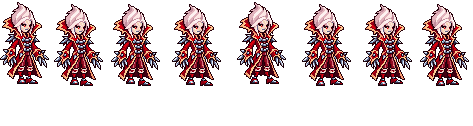
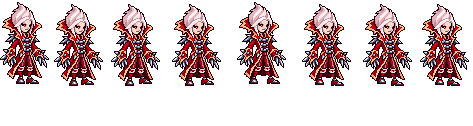
Vladimir PPU run feet redone (user: 「那走路时候脚也变形了啊吸血鬼」)
The last run lifted the boot over its own shin (the leg looked squashed), let the boots touch and merge, bent the
shin in two rows and lifted the foot while it slid back. Now (RUN_LEGS in import_ppu_strips.py): each foot slides
back on the ground and swings forward in the air, the boot moved whole (pixel for pixel the design's), the shin
leaning from the knee and shortening as the foot lifts; the feet keep 1 px apart; ground shut in between a moved
boot and the coat takes the lining's shade.

diff --git a/tools/art/import_ppu_strips.py b/tools/art/import_ppu_strips.py
@@ -73,8 +73,13 @@ def place_idle(design, idle1, k):
     sole = np.nonzero(sk.any(axis=1))[0].max()
     dh, dw = design.shape[:2]
     y0 = sole - dh + 1
-    if y0 < 0 or dw > W:
-        sys.exit(f"the design ({dw}x{dh}) does not fit the idle frame {W}x{H} (soles at row {sole})")
+    if dw > W:
+        sys.exit(f"the design ({dw}x{dh}) is wider than the idle frame {W}x{H}")
+    if y0 < 0:
+        # taller than the frame (karma's jade ring over her head): the frame grown alike at the top and the bottom
+        g = -y0
+        H, y0 = H + 2 * g, 0
+        sk = np.pad(sk, ((g, g), (0, 0)))
     dm = design[..., 3] > 0
     best = max(range(0, W - dw + 1), key=lambda x0: int((sk[y0:y0 + dh, x0:x0 + dw] & dm).sum()))
     out = np.zeros((H, W, 4), np.uint8)
@@ -112,10 +117,9 @@ def main():
                          "where a frame holds them pixel for pixel, the outline of the head Codex drew first and "
                          "pasted over is cleared - parts next to the block in its rows that never reach more than 4 "
                          "pixels from it (「吸血鬼走路有残影？没清理干净吧」); an arm or a claw reaches far")
-    ap.add_argument("--design-run", metavar="NEAR|FAR",
-                    help="the run is the design itself, still, its two legs stepping: each leg = boxes x0-x1:y0-y1 "
-                         "joined by + (the design's squares); vladimir 15-25:73-81|26-34:73-75+26-40:76-81 "
-                         "(Codex's run bodies changed width and arm length frame to frame: 「吸血鬼走路时模型变形」)")
+    ap.add_argument("--design-run", action="store_true",
+                    help="the run is the design itself, its legs stepping (RUN_LEGS; Codex's run bodies changed width "
+                         "and arm length frame to frame: 「吸血鬼走路时模型变形」)")
     ap.add_argument("--same", action="append", default=[], metavar="TAG:I=J",
                     help="frame I of TAG is frame J's drawing, its lowest row on frame I's skeleton's lowest row (a "
                          "drawing that does not match its neighbours; vladimir dead:5=4 dead:6=4 dead:7=4 - Codex drew "
@@ -183,9 +187,7 @@ def main():
                     print(f"{tag}[{i}]: {n} pixels of the old head's outline round the pasted head (cleared)")
     idle = sheet["idle"]
     if a.design_run:
-        boxes = [[tuple(tuple(int(v) * s for v in part.split("-")) for part in box.split(":"))
-                  for box in leg.split("+")] for leg in a.design_run.split("|")]
-        run = design_run(design_s, boxes[0], boxes[1], len(sheet["run"]), s)
+        run = design_run(design_s, RUN_LEGS[hero], len(sheet["run"]), s)
         base, (x0, y0) = place_idle(design_s, idle[0][0], k)
         for i, f in enumerate(run):
             H, W = got["run"][i].shape[:2]
@@ -252,43 +254,78 @@ def clear_head_ghost(fr, design, rows, far=4, allow=5):
     return int(gone.sum())
 
 
-def design_run(design, near, far, n, s=1, stride=2.0, lift=2.0, boot=2):
-    """`n` run frames of the design (as tall, as wide): the body still, the two legs (each a list of boxes
-    ((x0, x1), (y0, y1)), inclusive) stepping half a cycle apart - the foot moved `stride` pixels forward and
-    back and lifted up to `lift` on its way forward. The foot (the leg's rows from `boot` rows under its top) moves as
-    one block; the rows above it lean from the leg's top to the foot. The far leg is behind the body, the near one in front."""
+# The run legs drawn from the design (--design-run): per leg the design's own pixels, row -> (first, last column) -
+# the shin (swung about the knee row: each row moved in proportion) and the boot (from `boot` down, moved whole);
+# `dx` = the foot's range forward and back (the near foot never reaches the far one: 「那走路时候脚也变形了啊」),
+# `phase` = where in the cycle it starts. `lining` = the coat's inside colour left behind the shins inside the coat.
+RUN_LEGS = {
+    "vladimir": {
+        "knee": 69, "boot": 75, "lift": 2, "inside_to": 72, "lining": (0x42, 0x00, 0x12),
+        "legs": [
+            {"name": "far", "phase": 0.5, "dx": (-1, 3),
+             "rows": {70: (27, 31), 71: (27, 31), 72: (28, 32), 73: (29, 31), 74: (29, 31), 75: (28, 32),
+                      76: (28, 33), 77: (27, 34), 78: (27, 37), 79: (27, 38), 80: (27, 39), 81: (27, 39)}},
+            {"name": "near", "phase": 0.0, "dx": (-3, 1),
+             "rows": {70: (17, 22), 71: (18, 22), 72: (18, 22), 73: (18, 21), 74: (18, 21), 75: (17, 21),
+                      76: (17, 21), 77: (16, 22), 78: (16, 22), 79: (15, 23), 80: (15, 23), 81: (15, 23)}},
+        ],
+    },
+}
+
+
+def design_run(design, spec, n, s=1):
+    """`n` run frames of the design: the body as it is (no part of it moves), the legs of `spec` (RUN_LEGS) stepping
+    half a cycle apart. A foot slides back on the ground (dx from its front to its back end) and swings forward in
+    the air (lifted up to `lift`); its shin leans from the knee to it, rows moved in proportion, and shortens as the
+    foot lifts (rows dropped, its top and its bottom kept) - the boot is never drawn over the shin, never cut, never
+    sheared. Far leg first, near leg over it; where a shin was inside the coat the coat's lining shows."""
     H, W = design.shape[:2]
-    op = design[..., 3] > 0
-    legs = []
-    for boxes in (near, far):
-        m = np.zeros((H, W), bool)
-        for (x0, x1), (y0, y1) in boxes:
-            m[y0:y1 + 1, x0:x1 + 1] = op[y0:y1 + 1, x0:x1 + 1]
-        legs.append(m)
-    top = min(min(y0 for _, (y0, _) in b) for b in (near, far))
+    knee, boot, lift = spec["knee"] * s, spec["boot"] * s, spec["lift"] * s
     body = design.copy()
-    body[legs[0] | legs[1]] = 0
+    masks = []
+    for leg in spec["legs"]:
+        m = np.zeros((H, W), bool)
+        for r, (c0, c1) in leg["rows"].items():
+            for k in range(s):
+                m[r * s + k, c0 * s:(c1 + 1) * s] = True
+        m &= design[..., 3] > 0
+        masks.append(m)
+        inside = m.copy()
+        inside[(spec["inside_to"] + 1) * s:] = False
+        body[m] = 0
+        body[inside] = spec["lining"] + (255,)
+    from scipy import ndimage
+    op0 = design[..., 3] > 0
+    holes0 = ndimage.binary_fill_holes(op0) & ~op0
     frames = []
-    span = boot * s
     for i in range(n):
-        out = np.zeros_like(design)
-        layers = []
-        for leg, ph in ((legs[1], i / n + 0.5), (legs[0], i / n)):
-            a = 2 * np.pi * ph
-            dx = stride * s * np.cos(a)
-            up_ = lift * s * max(0.0, np.sin(a))
+        out = body.copy()
+        for leg, m in zip(spec["legs"], masks):
+            a = 2 * np.pi * (i / n + leg["phase"])
+            lo, hi = leg["dx"]
+            dx = ((lo + hi) / 2 + (hi - lo) / 2 * np.cos(a)) * s
+            up_ = lift * max(0.0, -np.sin(a))
             lay = np.zeros_like(design)
-            ys, xs = np.nonzero(leg)
-            for y, x in sorted(zip(ys, xs)):
-                t = min(1.0, (y - top + 1) / (span + 1))
-                ny, nx = int(round(y - up_ * t)), int(round(x + dx * t))
-                if 0 <= ny < H and 0 <= nx < W:
-                    lay[ny, nx] = design[y, x]
-            layers.append(lay)
-        far_l, near_l = layers
-        out[far_l[..., 3] > 0] = far_l[far_l[..., 3] > 0]
-        out[body[..., 3] > 0] = body[body[..., 3] > 0]
-        out[near_l[..., 3] > 0] = near_l[near_l[..., 3] > 0]
+            for y in range(H):
+                xs = np.nonzero(m[y])[0]
+                if not len(xs):
+                    continue
+                t = min(1.0, max(0.0, (y - knee + 1) / (boot - knee + 1)))
+                ny = y - int(np.floor(up_ * t + 0.5))
+                sh = int(np.floor(dx * t + 0.5))
+                ok = (xs + sh >= 0) & (xs + sh < W)
+                if 0 <= ny < H:
+                    lay[ny, xs[ok] + sh] = design[y, xs[ok]]
+            out[lay[..., 3] > 0] = lay[lay[..., 3] > 0]
+        # ground shut in between a moved boot or shin and the coat that the design does not have (a crack, memory
+        # gap-check) takes the lining's shade
+        from scipy import ndimage
+        o = out[..., 3] > 0
+        pockets, n_ = ndimage.label(ndimage.binary_fill_holes(o) & ~o & ~holes0)
+        for v in range(1, n_ + 1):
+            z = pockets == v
+            if z.sum() <= 8 * s * s:
+                out[z] = spec["lining"] + (255,)
         frames.append(out)
     return frames
 
